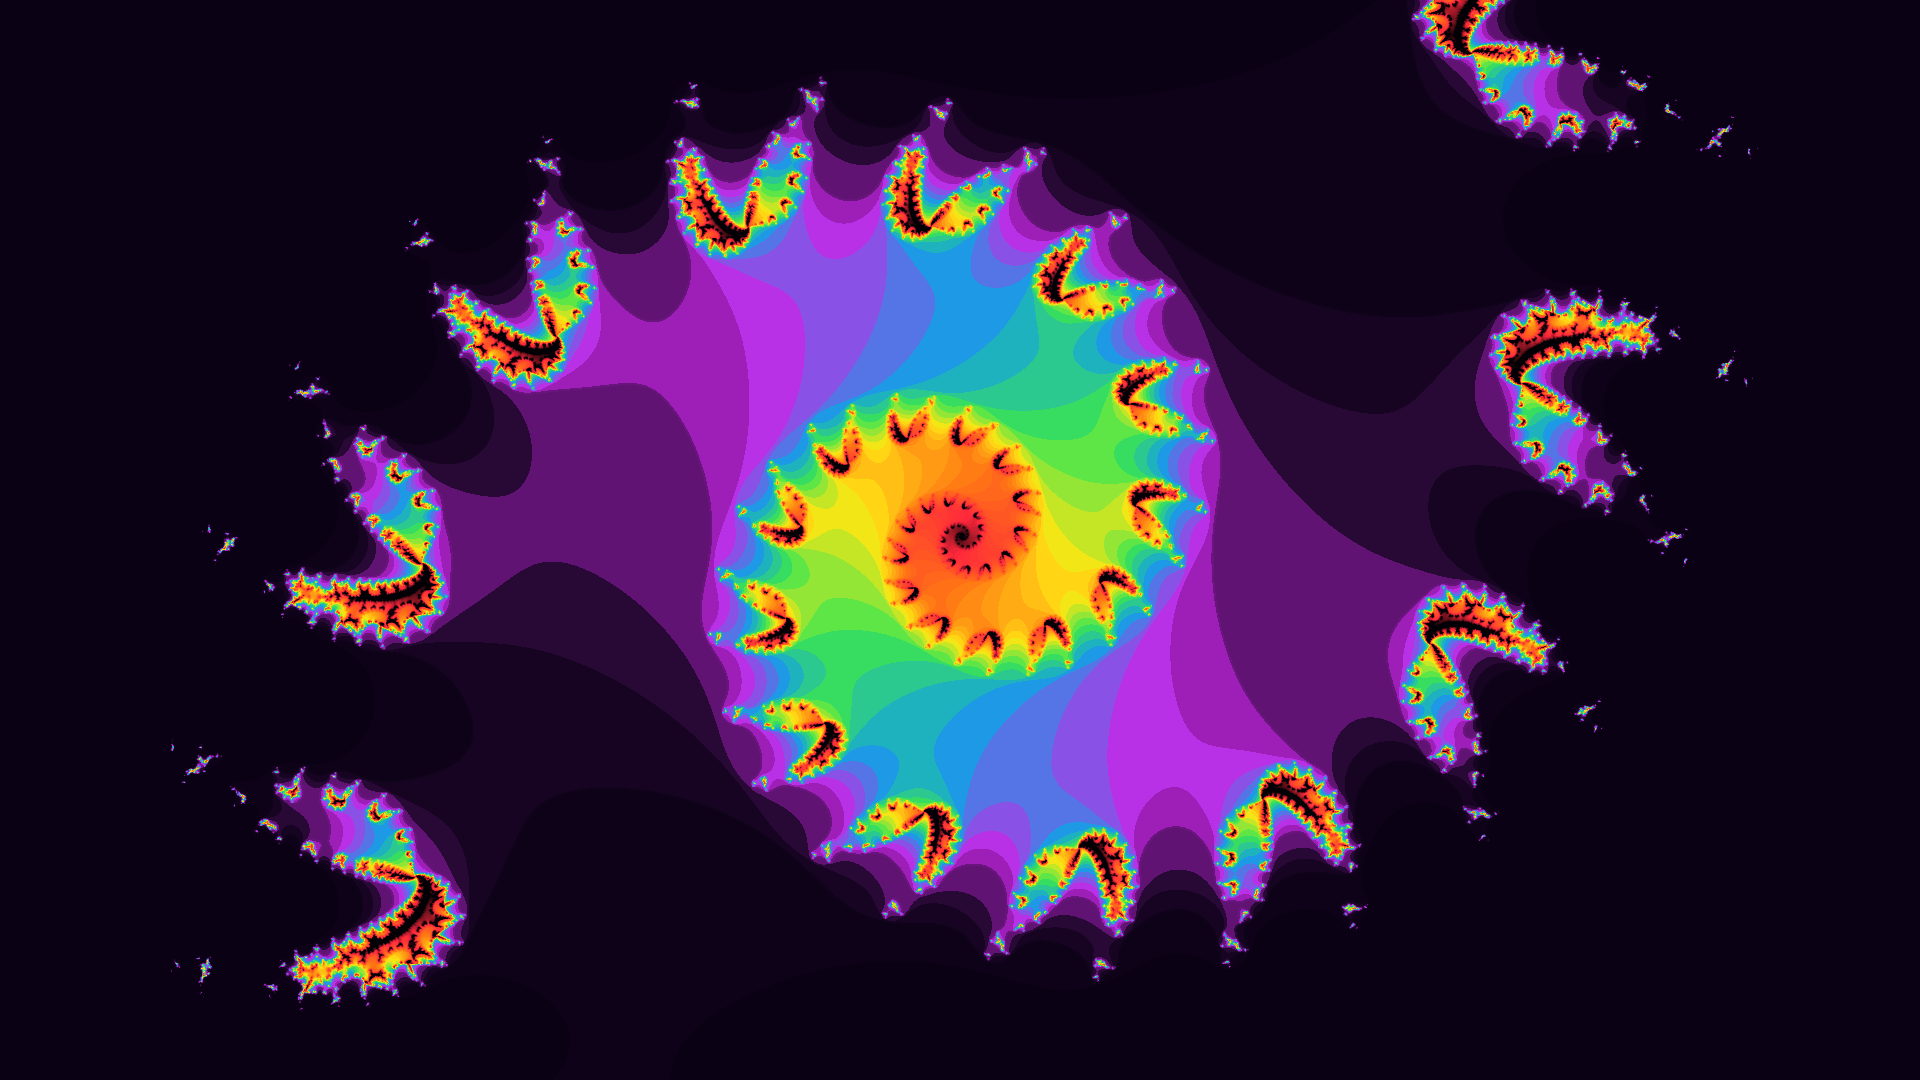
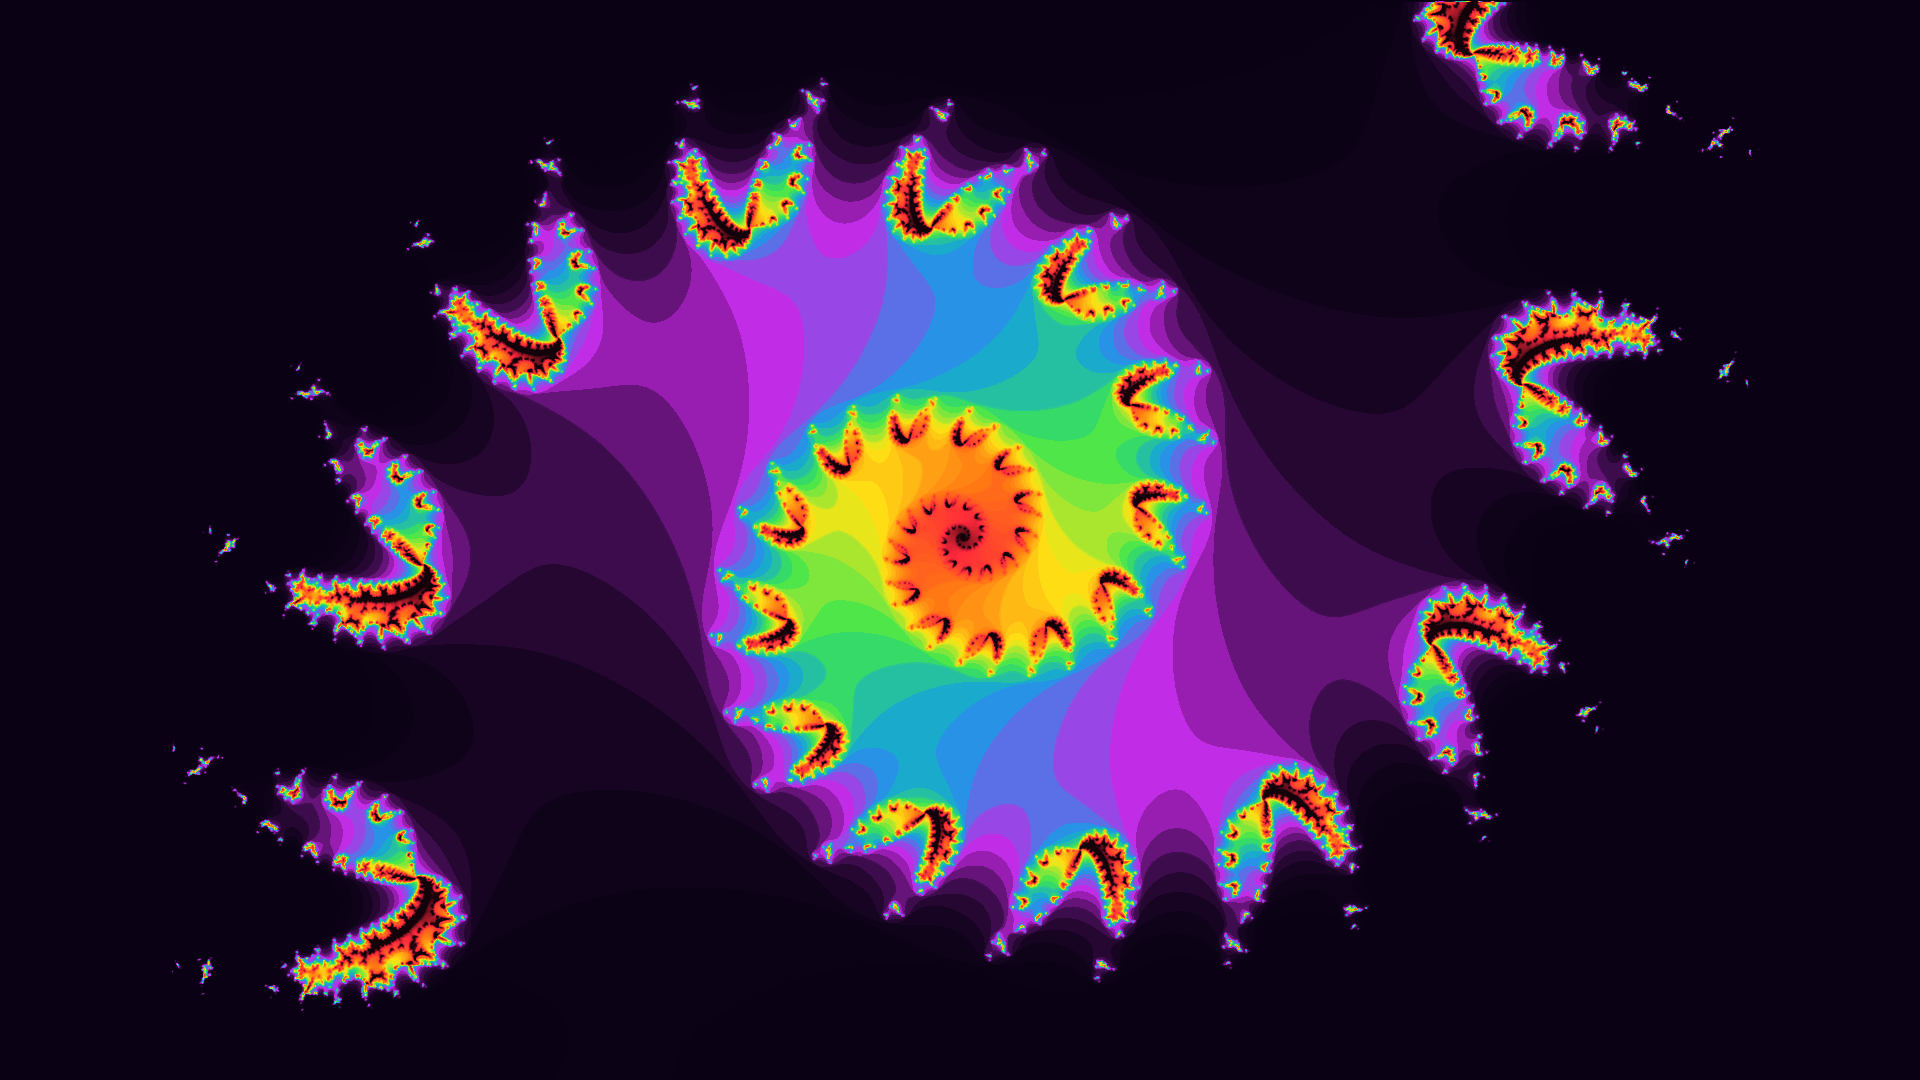
Change "weighting technique", edit default gradient, re-render presets

diff --git a/src/main.rs b/src/main.rs
@@ -53,11 +53,6 @@ struct DevOptions {
     display_gradient: Option<bool>,
 }
 
-#[inline]
-fn gaussian(x: f64) -> f64 {
-    (-x * x).exp()
-}
-
 fn main() -> Result<()> {
     let args: Vec<String> = env::args().collect();
 
@@ -231,60 +226,35 @@ fn main() -> Result<()> {
                             let i = i + KERNEL_SIZE as usize;
                             let j = j + KERNEL_SIZE as usize;
 
-                            // Note: the way sample vectors are constructed makes the
-                            // first element always the one in the center of the pixel.
-                            let center_samples = chunk_samples.get((i, j)).unwrap();
-                            let avg_center_value =
-                                center_samples.iter().map(|&(_, v)| v).sum::<f64>()
-                                    / center_samples.len() as f64;
+                            let mut weighted_sum = 0.;
+                            let mut weight_total = 0.;
 
-                            let mut samples_with_weights = Vec::new();
-
-                            for dj in -KERNEL_SIZE..KERNEL_SIZE {
-                                for di in -KERNEL_SIZE..KERNEL_SIZE {
+                            for dj in -KERNEL_SIZE..=KERNEL_SIZE {
+                                for di in -KERNEL_SIZE..=KERNEL_SIZE {
                                     let ii =
                                         i.saturating_add_signed(di).min(img_width as usize - 1);
                                     let jj =
                                         j.saturating_add_signed(dj).min(img_height as usize - 1);
 
-                                    let other_samples = chunk_samples.get((ii, jj)).unwrap();
-
-                                    for &((dx, dy), other_value) in other_samples.iter() {
+                                    for &((dx, dy), v) in chunk_samples.get((ii, jj)).unwrap() {
                                         let dx = di as f64 + dx;
                                         let dy = dj as f64 + dy;
 
-                                        samples_with_weights.push((
-                                            other_value,
-                                            (dx * dx + dy * dy) as f64,
-                                            (avg_center_value - other_value),
-                                        ));
+                                        const R: f64 = 1.5;
+                                        let d = dx * dx + dy * dy;
+                                        if d < R {
+                                            let w = 1. / (1. + d / R);
+                                            weighted_sum += w * v;
+                                            weight_total += w;
+                                        }
                                     }
                                 }
-                            }
-
-                            // IDEA use laplace edge detection
-
-                            // see https://en.wikipedia.org/wiki/Bilateral_filter#Definition
-                            let mut numerator = 0.;
-                            let mut denominator = 0.;
-
-                            for &(v, sw, rw) in &samples_with_weights {
-                                // How far the filter "reaches" in terms of spatial extent.
-                                const SPATIAL_SIGMA: f64 = 4.;
-                                // How tolerant the filter is to differences in values.
-                                const RANGE_SIGMA: f64 = 10.;
-
-                                let w =
-                                    gaussian(sw.sqrt() / SPATIAL_SIGMA + rw.abs() / RANGE_SIGMA);
-
-                                numerator += w * v;
-                                denominator += w;
                             }
 
                             processed_image
                                 .set(
                                     (pi as usize + i, pj as usize + j),
-                                    (numerator / denominator).min(1.),
+                                    weighted_sum / weight_total,
                                 )
                                 .unwrap();
                         }

diff --git a/src/sampling.rs b/src/sampling.rs
@@ -5,9 +5,8 @@ use crate::error::{ErrorKind, Result};
 
 #[derive(Debug, Clone, Copy, Default, PartialEq, Eq, Serialize, Deserialize)]
 pub enum SamplingLevel {
-    Single,
-    #[default]
     Low,
+    #[default]
     Medium,
     High,
     Ultra,
@@ -19,7 +18,6 @@ pub fn generate_sampling_points(sampling_level: Option<SamplingLevel>) -> Vec<(f
     // const PHI: f64 = 1.618033988749895;
 
     let n: i32 = match sampling_level.unwrap_or_default() {
-        SamplingLevel::Single => 0,
         SamplingLevel::Low => 1,
         SamplingLevel::Medium => 2,
         SamplingLevel::High => 3,

diff --git a/src/coloring.rs b/src/coloring.rs
@@ -56,7 +56,7 @@ const DEFAULT_GRADIENT: [(f64, [u8; 3]); 8] = [
     (0.55, [255, 230, 20]),
     (0.7, [255, 120, 20]),
     (0.85, [255, 40, 60]),
-    (0.95, [2, 0, 4]),
+    (0.95, [20, 2, 10]),
 ];
 
 pub fn color_mapping(t: f64, custom_gradient: Option<&Vec<(f64, [u8; 3])>>) -> Rgb<u8> {

diff --git a/README.md b/README.md
@@ -105,7 +105,6 @@ These are preset renders I find pretty, you can get their json parameters files 
   - `"Medium"`
   - `"High"`
   - `"Ultra"`
-  - `"Extreme"`
 
 - `custom_gradient`: _(optional)_ Set a custom gradient. This is an array of array of the form `[t, [r, g, b]]` where `t` is a float between 0 and 1 and `r`, `g`, `b` the color at that point in the gradient. Colors in between are interpolated.
 
